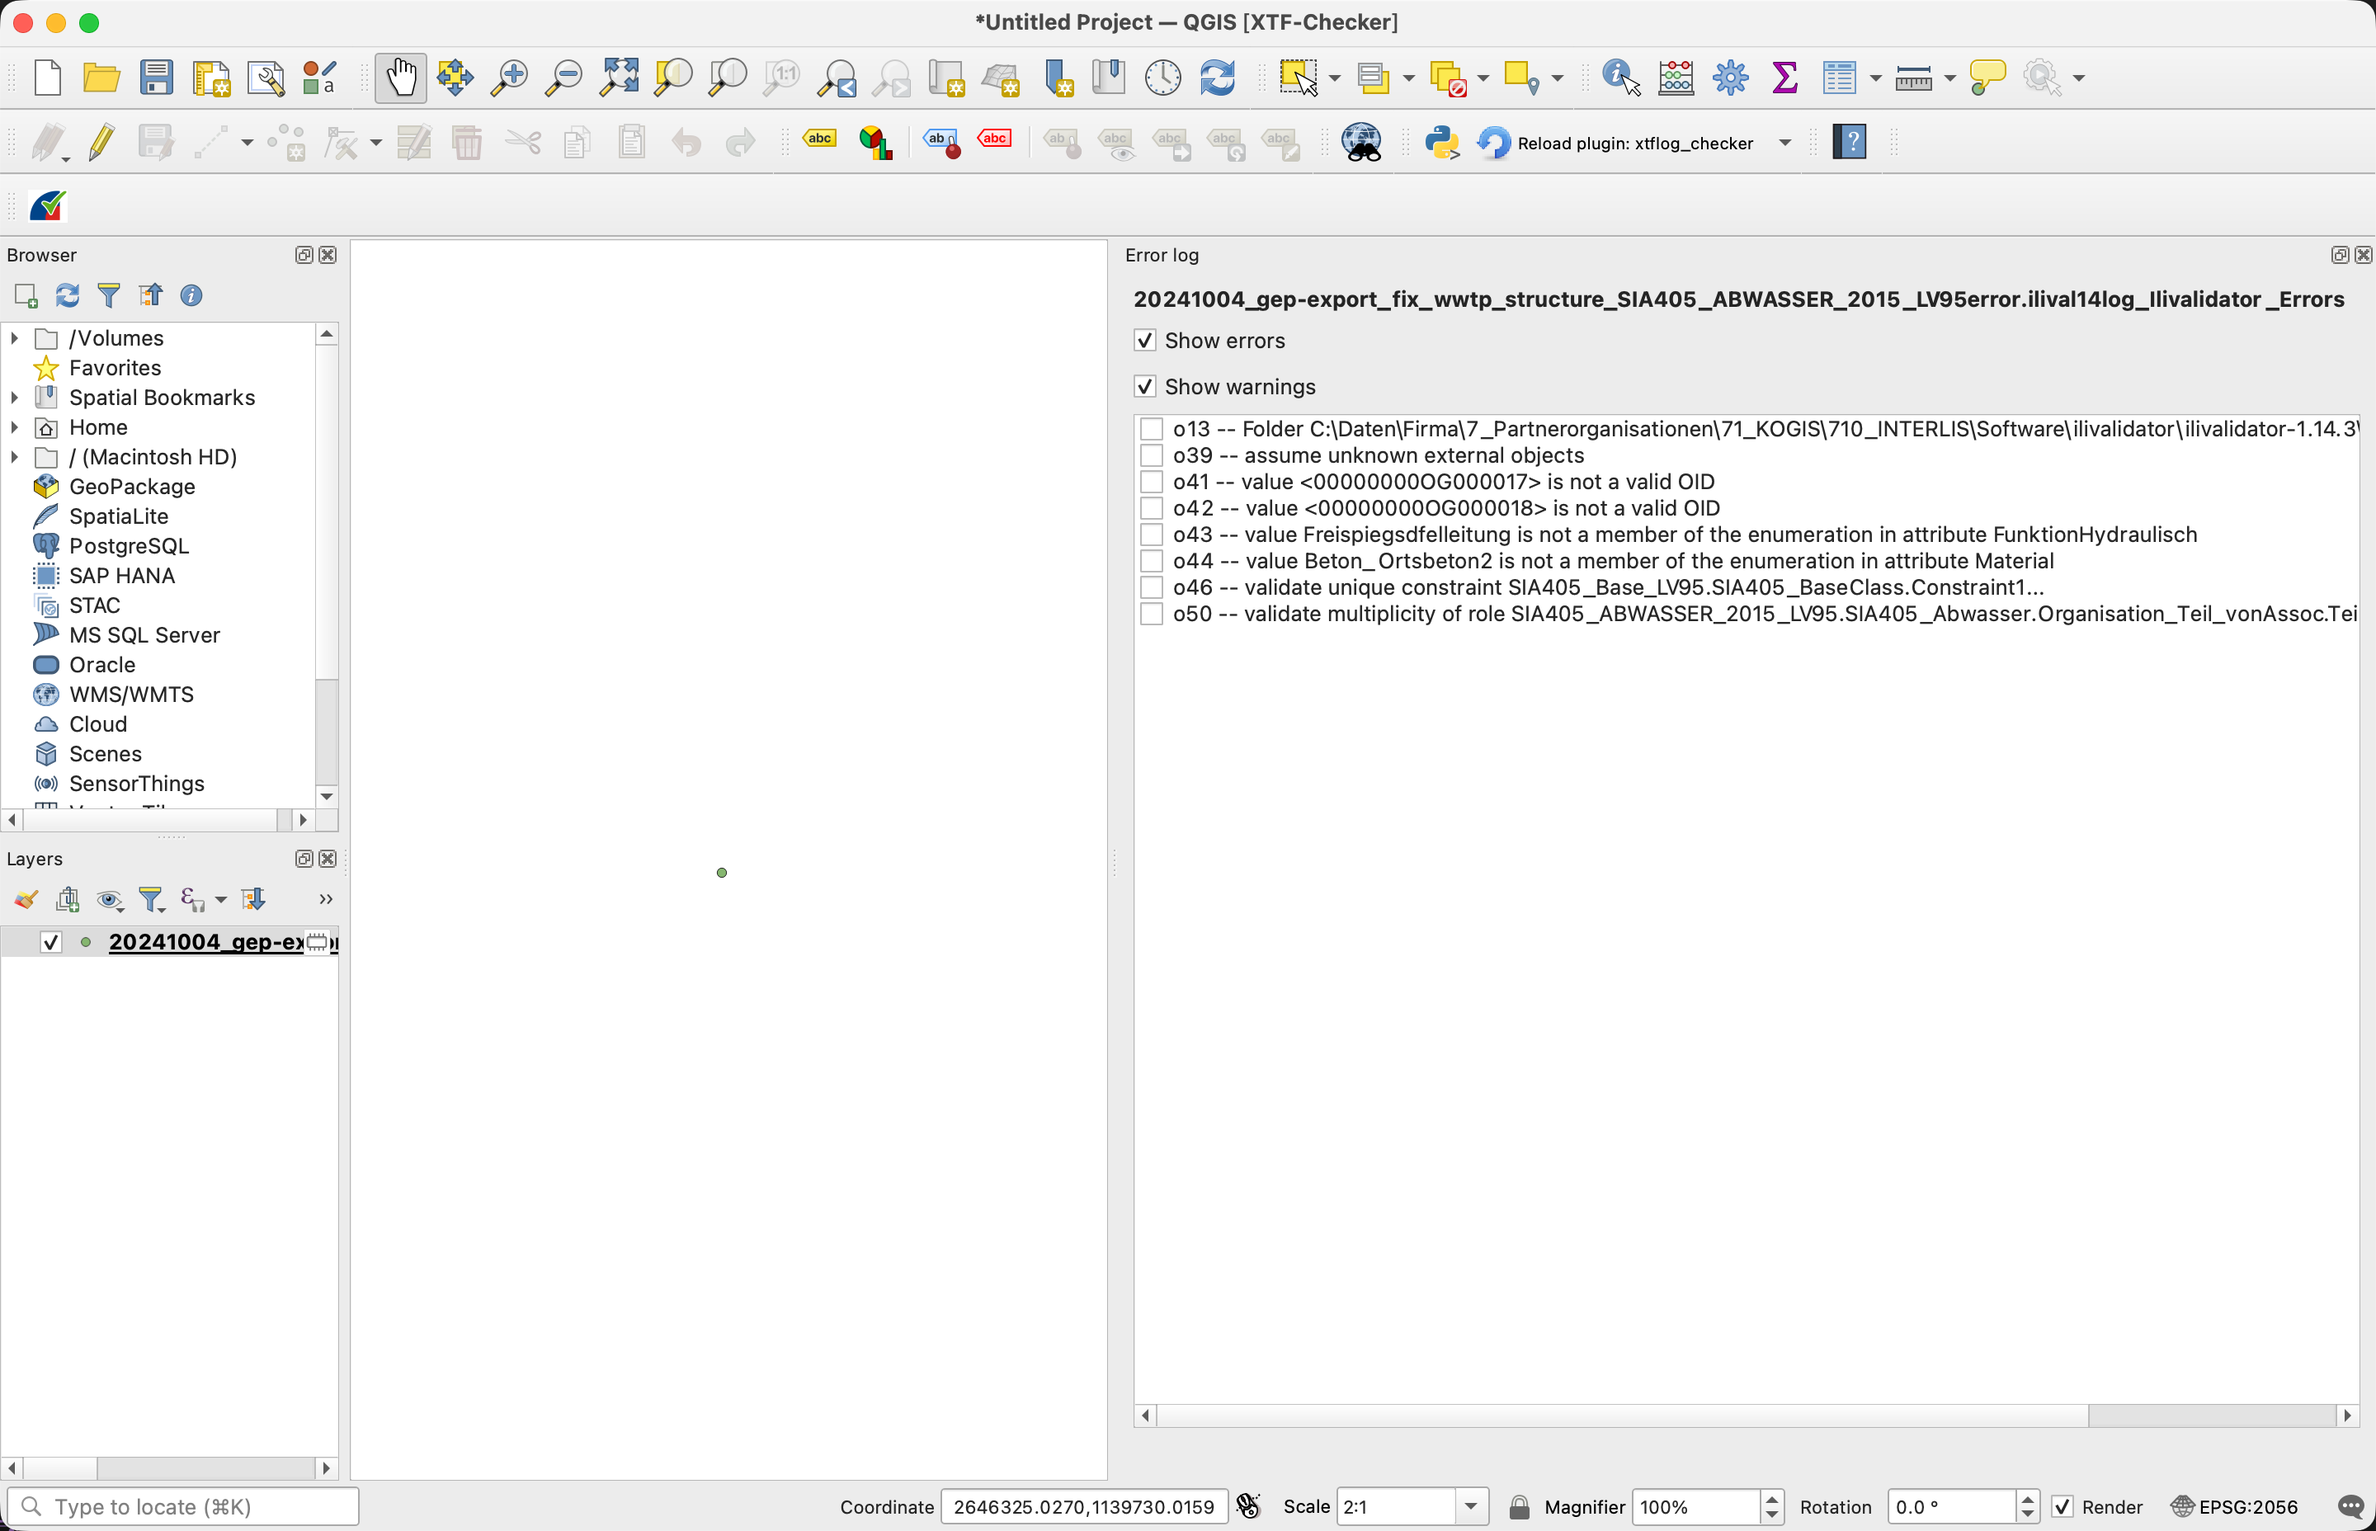
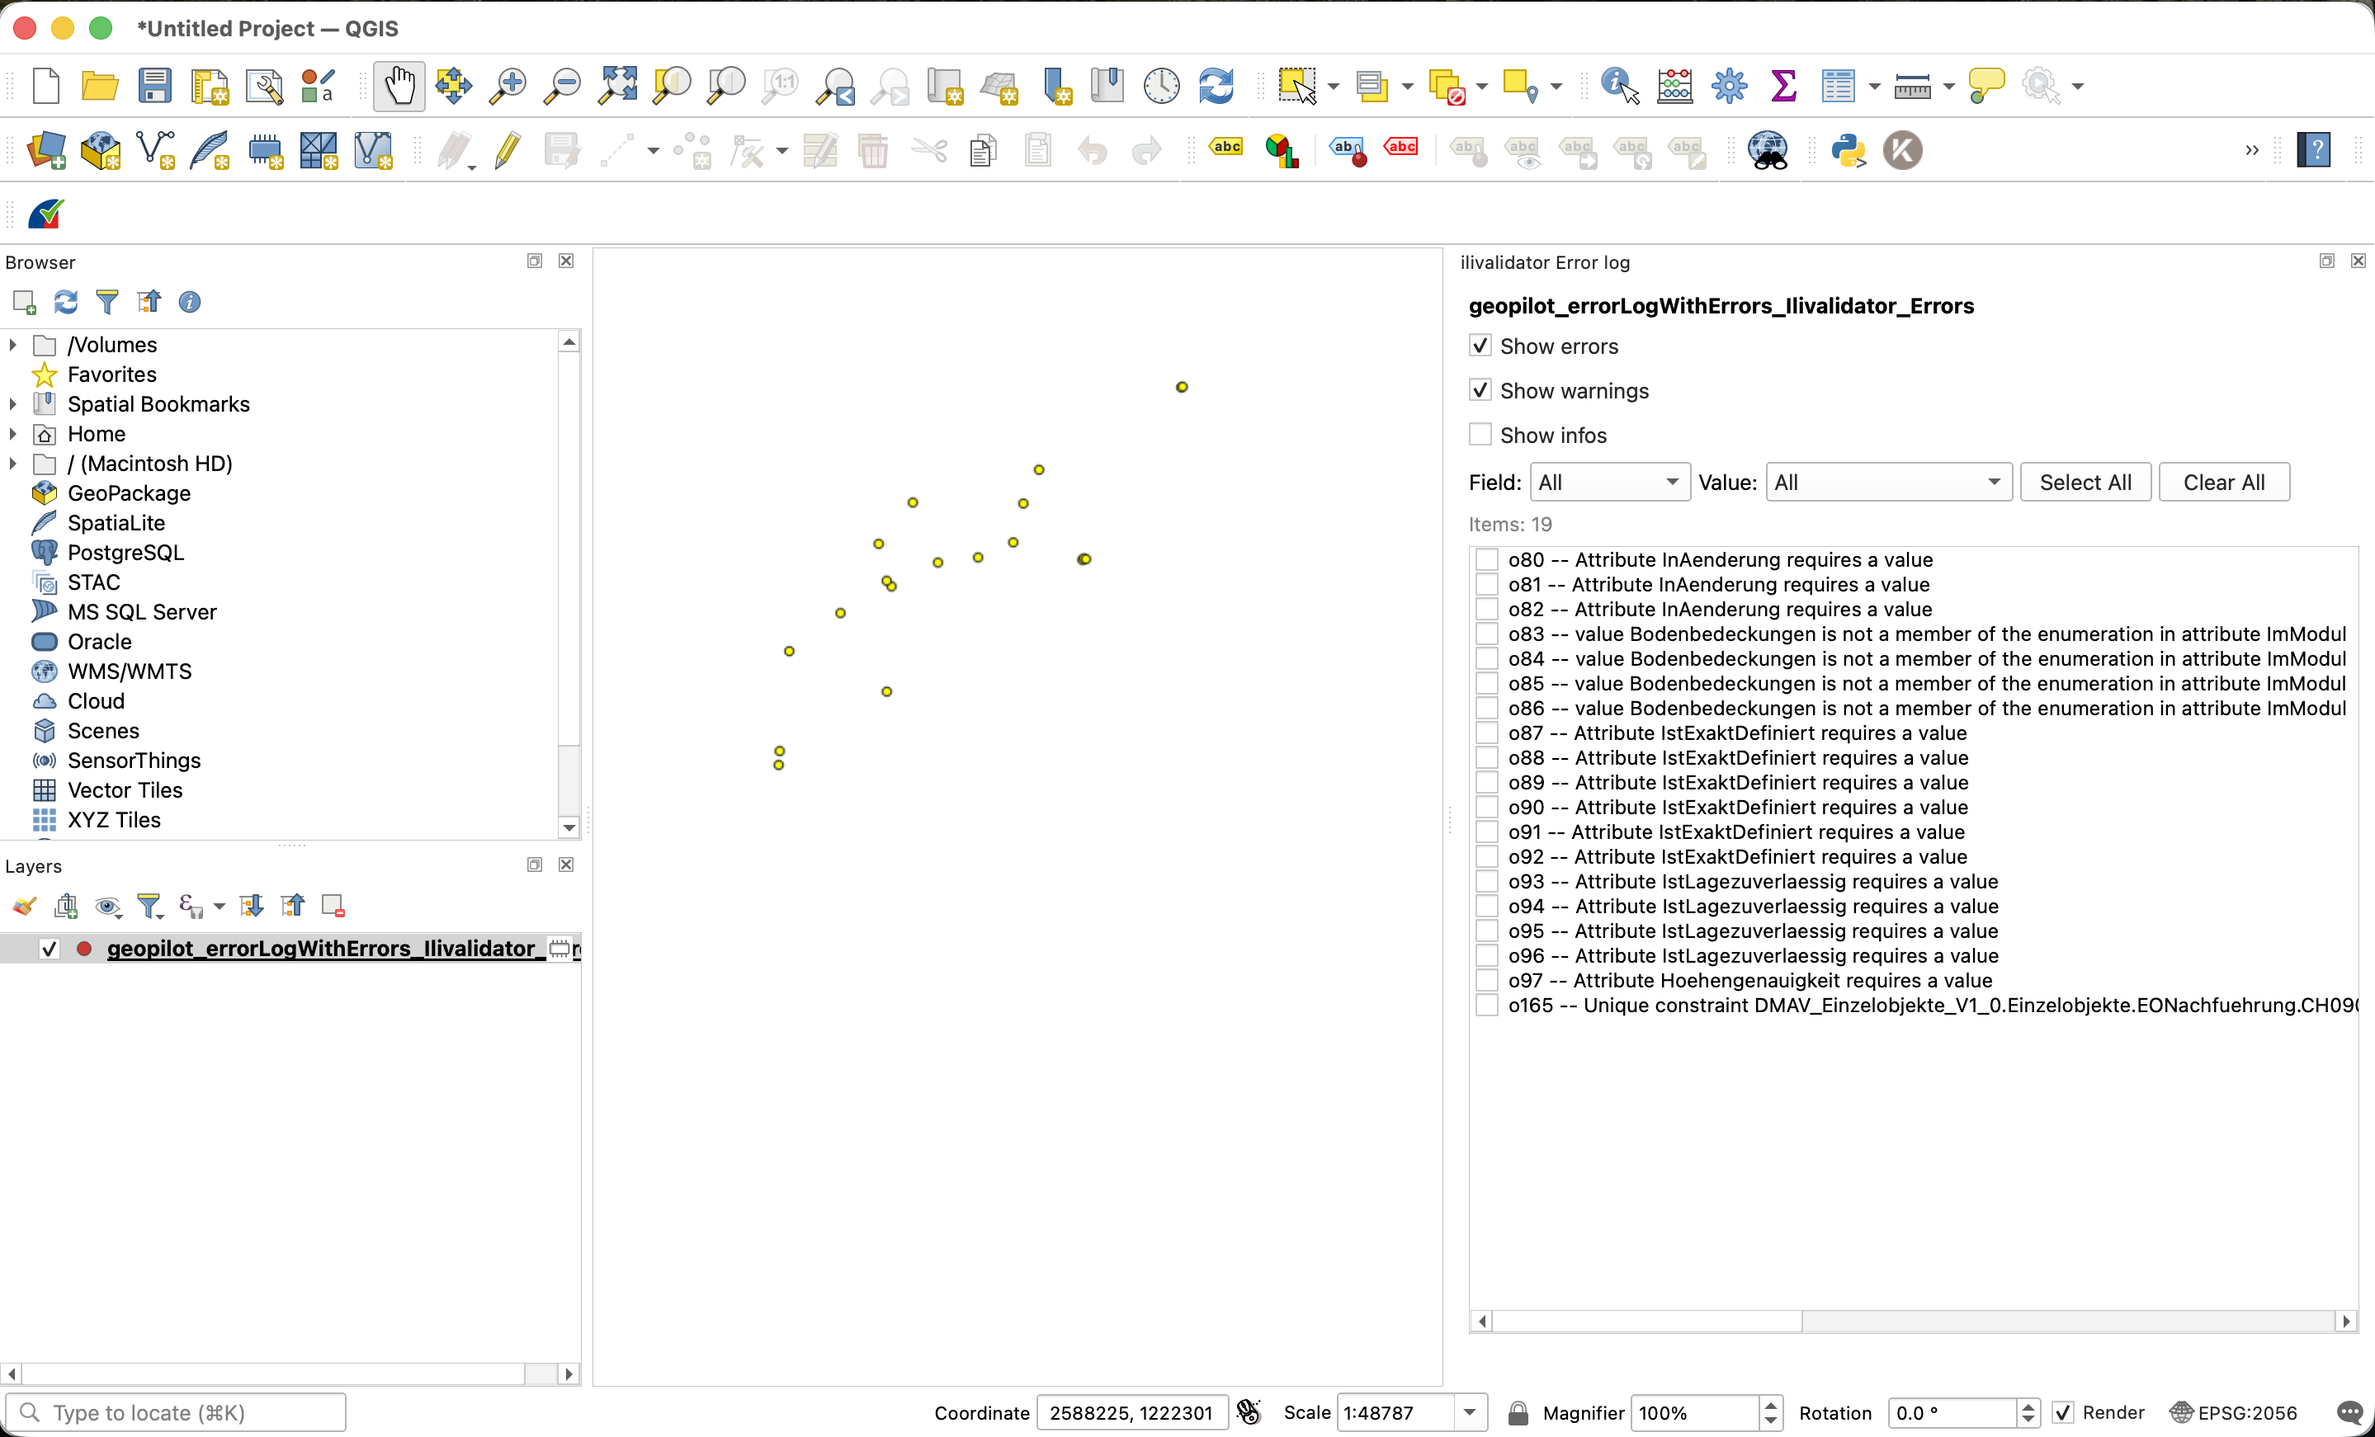
update README file dand screenshot

diff --git a/README.md b/README.md
@@ -41,7 +41,7 @@ C. You can also load a URL from an online validation service, such as [ilicop.ch
 
 <img src='screenshots/xtflogchecker_ilivalidator_errors.png' alt="Icon" width="90%">
 
-All Errors are displayed on the same layer. The latest version also supports the display of Errors without an assigned geometry. 
+All Errors are displayed on the same layer. The latest version also supports the display of Errors without an assigned geometry. There have field/value filter function.
 
 
 ### iG/Check
